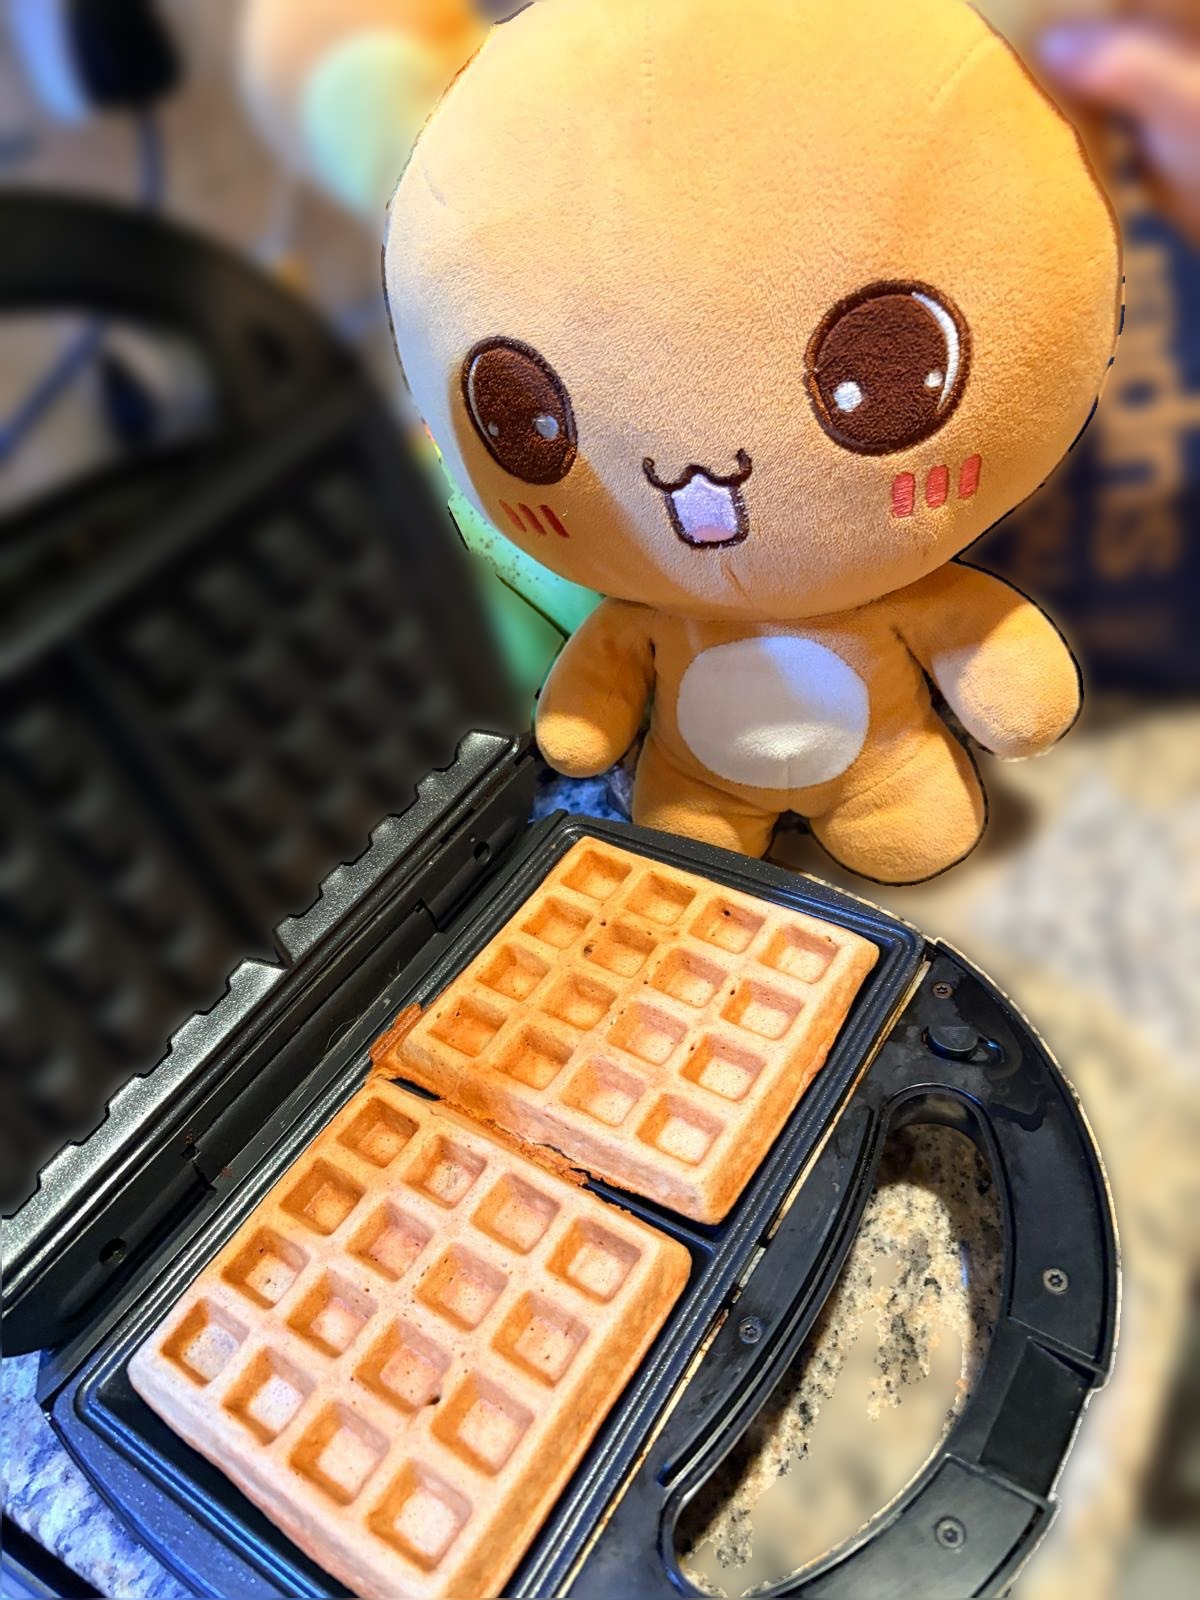
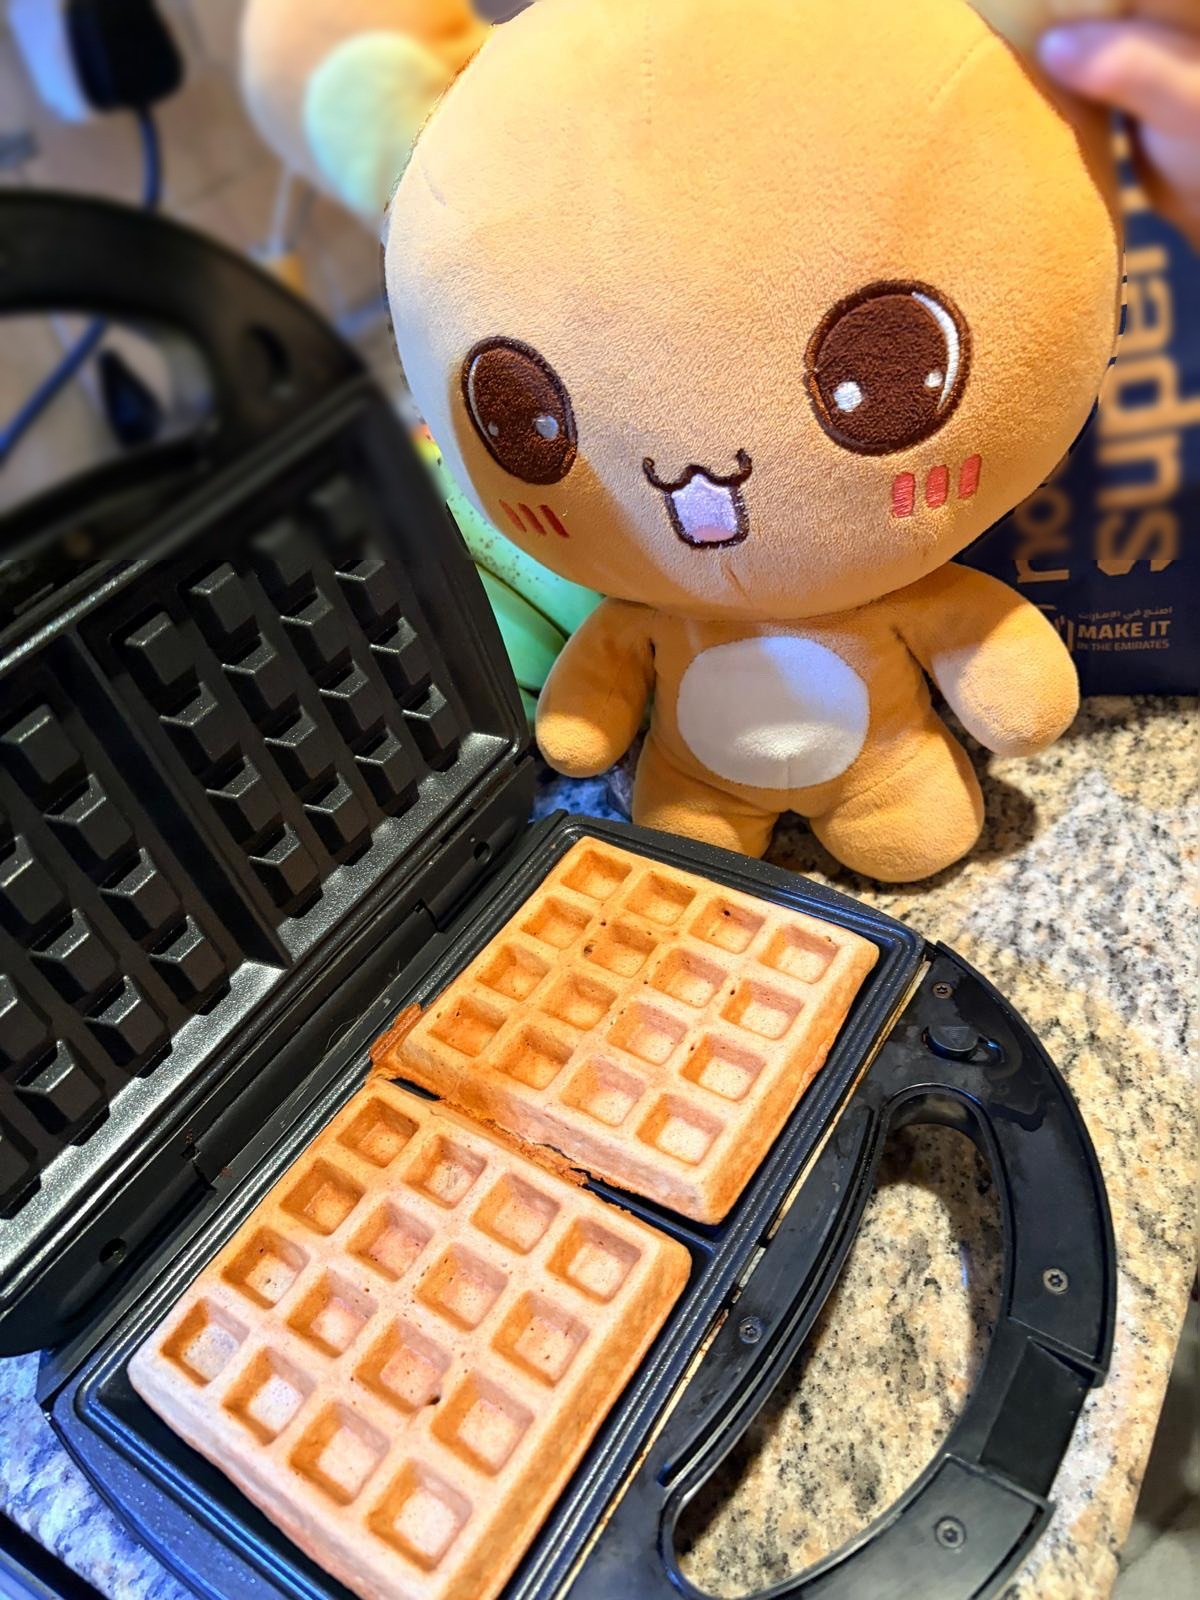
Further reduce blur and keep table area in front of kid sharp
Use 5px background blur, expand the foreground mask through the surface
in front of the subject, and harden masking so kid, bear, and props stay
on original pixels.

diff --git a/scripts/remove_backgrounds.py b/scripts/remove_backgrounds.py
@@ -20,8 +20,8 @@ OUT = ROOT / "docs/catalog/processed"
 SESSION = new_session("isnet-general-use")
 SESSION_BIREFNET = new_session("birefnet-general")
 
-# Light background blur only (foreground stays 100% original pixels).
-BLUR_RADIUS = 10
+# Very subtle background blur; foreground + table in front of kid stay sharp.
+BLUR_RADIUS = 5
 
 
 @dataclass
@@ -65,20 +65,36 @@ def drop_small_islands(alpha: np.ndarray, min_fraction: float = 0.003) -> np.nda
 
 
 def refine_alpha(alpha: np.ndarray) -> np.ndarray:
-    mask = alpha > 110
-    mask = ndimage.binary_dilation(mask, iterations=4)
+    mask = alpha > 100
+    mask = ndimage.binary_dilation(mask, iterations=6)
     mask = ndimage.binary_closing(mask, iterations=2)
-    out = (mask.astype(np.uint8) * 255)
-    # Minimal edge feather so the subject/table stay sharp.
-    return np.array(Image.fromarray(out, mode="L").filter(ImageFilter.GaussianBlur(radius=0.45)))
+    return (mask.astype(np.uint8) * 255)
+
+
+def extend_surface_in_front(alpha: np.ndarray) -> np.ndarray:
+    """Keep table/floor and props in front of the kid fully sharp."""
+    mask = alpha > 120
+    if not mask.any():
+        return alpha
+    ys, xs = np.where(mask)
+    y_top, y_bottom = int(ys.min()), int(ys.max())
+    h, w = alpha.shape
+    x_left = max(0, int(xs.min() - w * 0.06))
+    x_right = min(w, int(xs.max() + w * 0.06))
+    out = alpha.copy()
+    # Surface band: from lower third of subject down to bottom of frame.
+    surface_start = y_top + int((y_bottom - y_top) * 0.35)
+    out[surface_start:, x_left:x_right] = 255
+    return out
 
 
 def harden_foreground_alpha(alpha: np.ndarray) -> np.ndarray:
-    """Full-strength original on subjects; blur only where mask is clearly background."""
+    """Binary-sharp foreground; blur only on clear background pixels."""
     a = alpha.astype(np.float32) / 255.0
-    a = np.clip((a - 0.22) / 0.38, 0.0, 1.0)
-    a = np.where(a > 0.72, 1.0, a)
-    return (a * 255).astype(np.uint8)
+    a = np.where(a > 0.12, 1.0, 0.0)
+    # Hairline blend at outer edge only (avoid softening the kid or table).
+    soft = np.array(Image.fromarray((a * 255).astype(np.uint8), mode="L").filter(ImageFilter.GaussianBlur(radius=0.35)))
+    return np.array(soft, dtype=np.uint8)
 
 
 def rembg_alpha(img: Image.Image, session=SESSION) -> np.ndarray:
@@ -114,10 +130,12 @@ def build_foreground_mask(original: Image.Image, cfg: ImageConfig) -> np.ndarray
         full_alpha = np.zeros((full_h, full_w), dtype=np.uint8)
         cropped_alpha = drop_small_islands(cropped_alpha)
         cropped_alpha = refine_alpha(cropped_alpha)
+        cropped_alpha = extend_surface_in_front(cropped_alpha)
         full_alpha[y0:y1, x0:x1] = harden_foreground_alpha(cropped_alpha)
         return full_alpha
     alpha = drop_small_islands(alpha)
     alpha = refine_alpha(alpha)
+    alpha = extend_surface_in_front(alpha)
     return harden_foreground_alpha(alpha)
 
 
